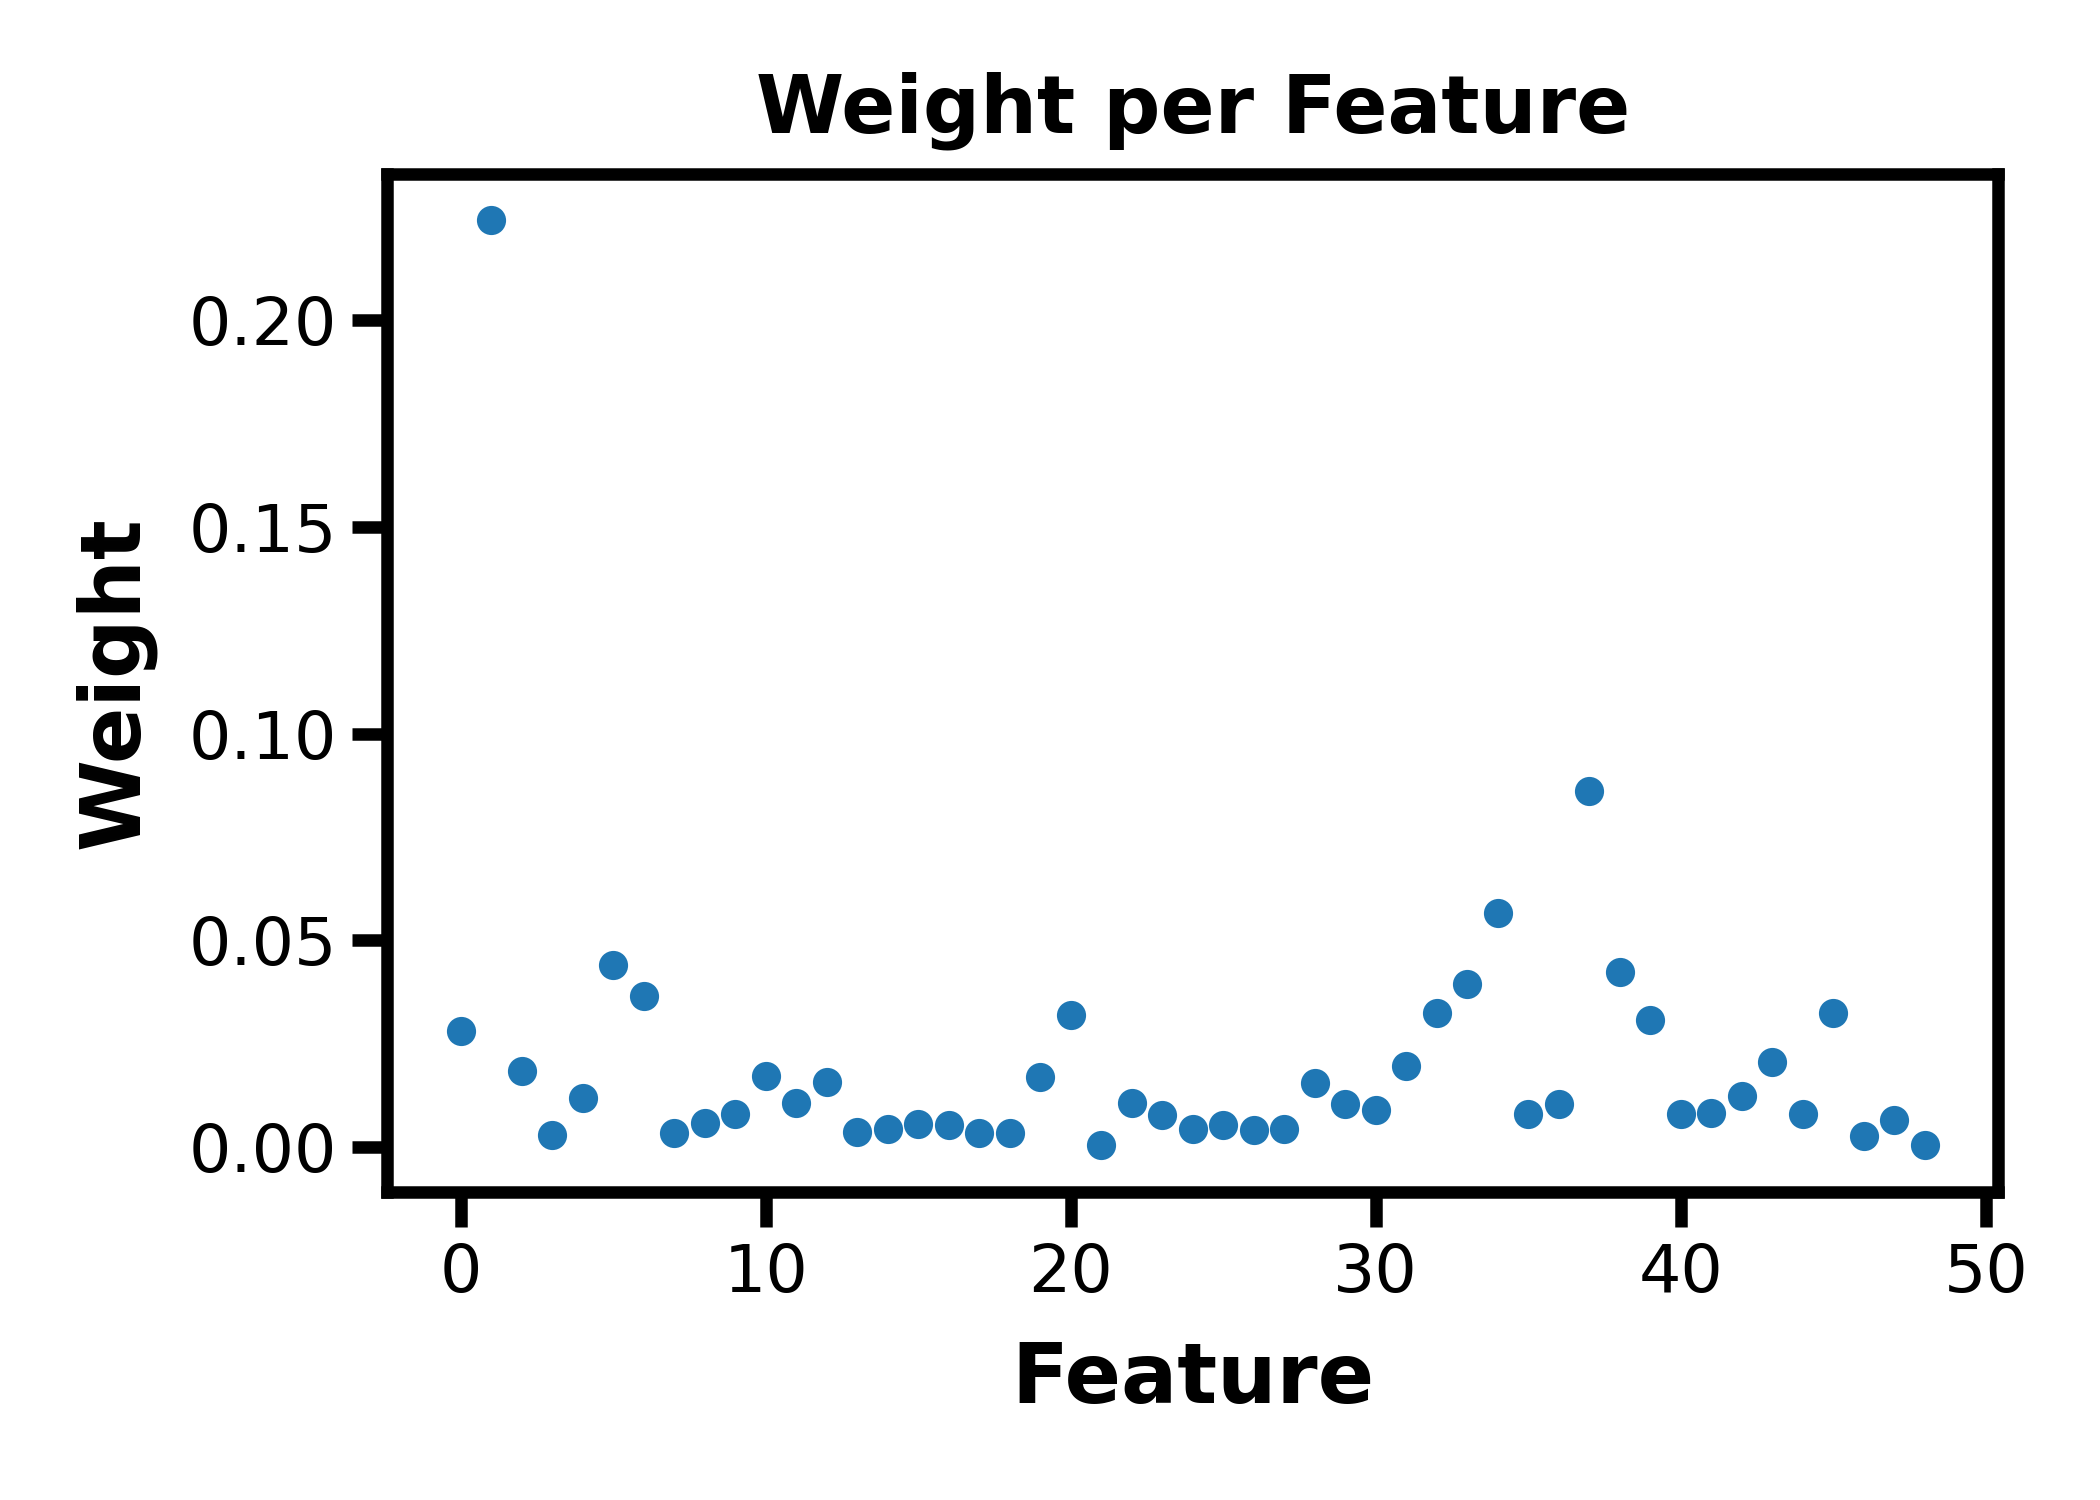
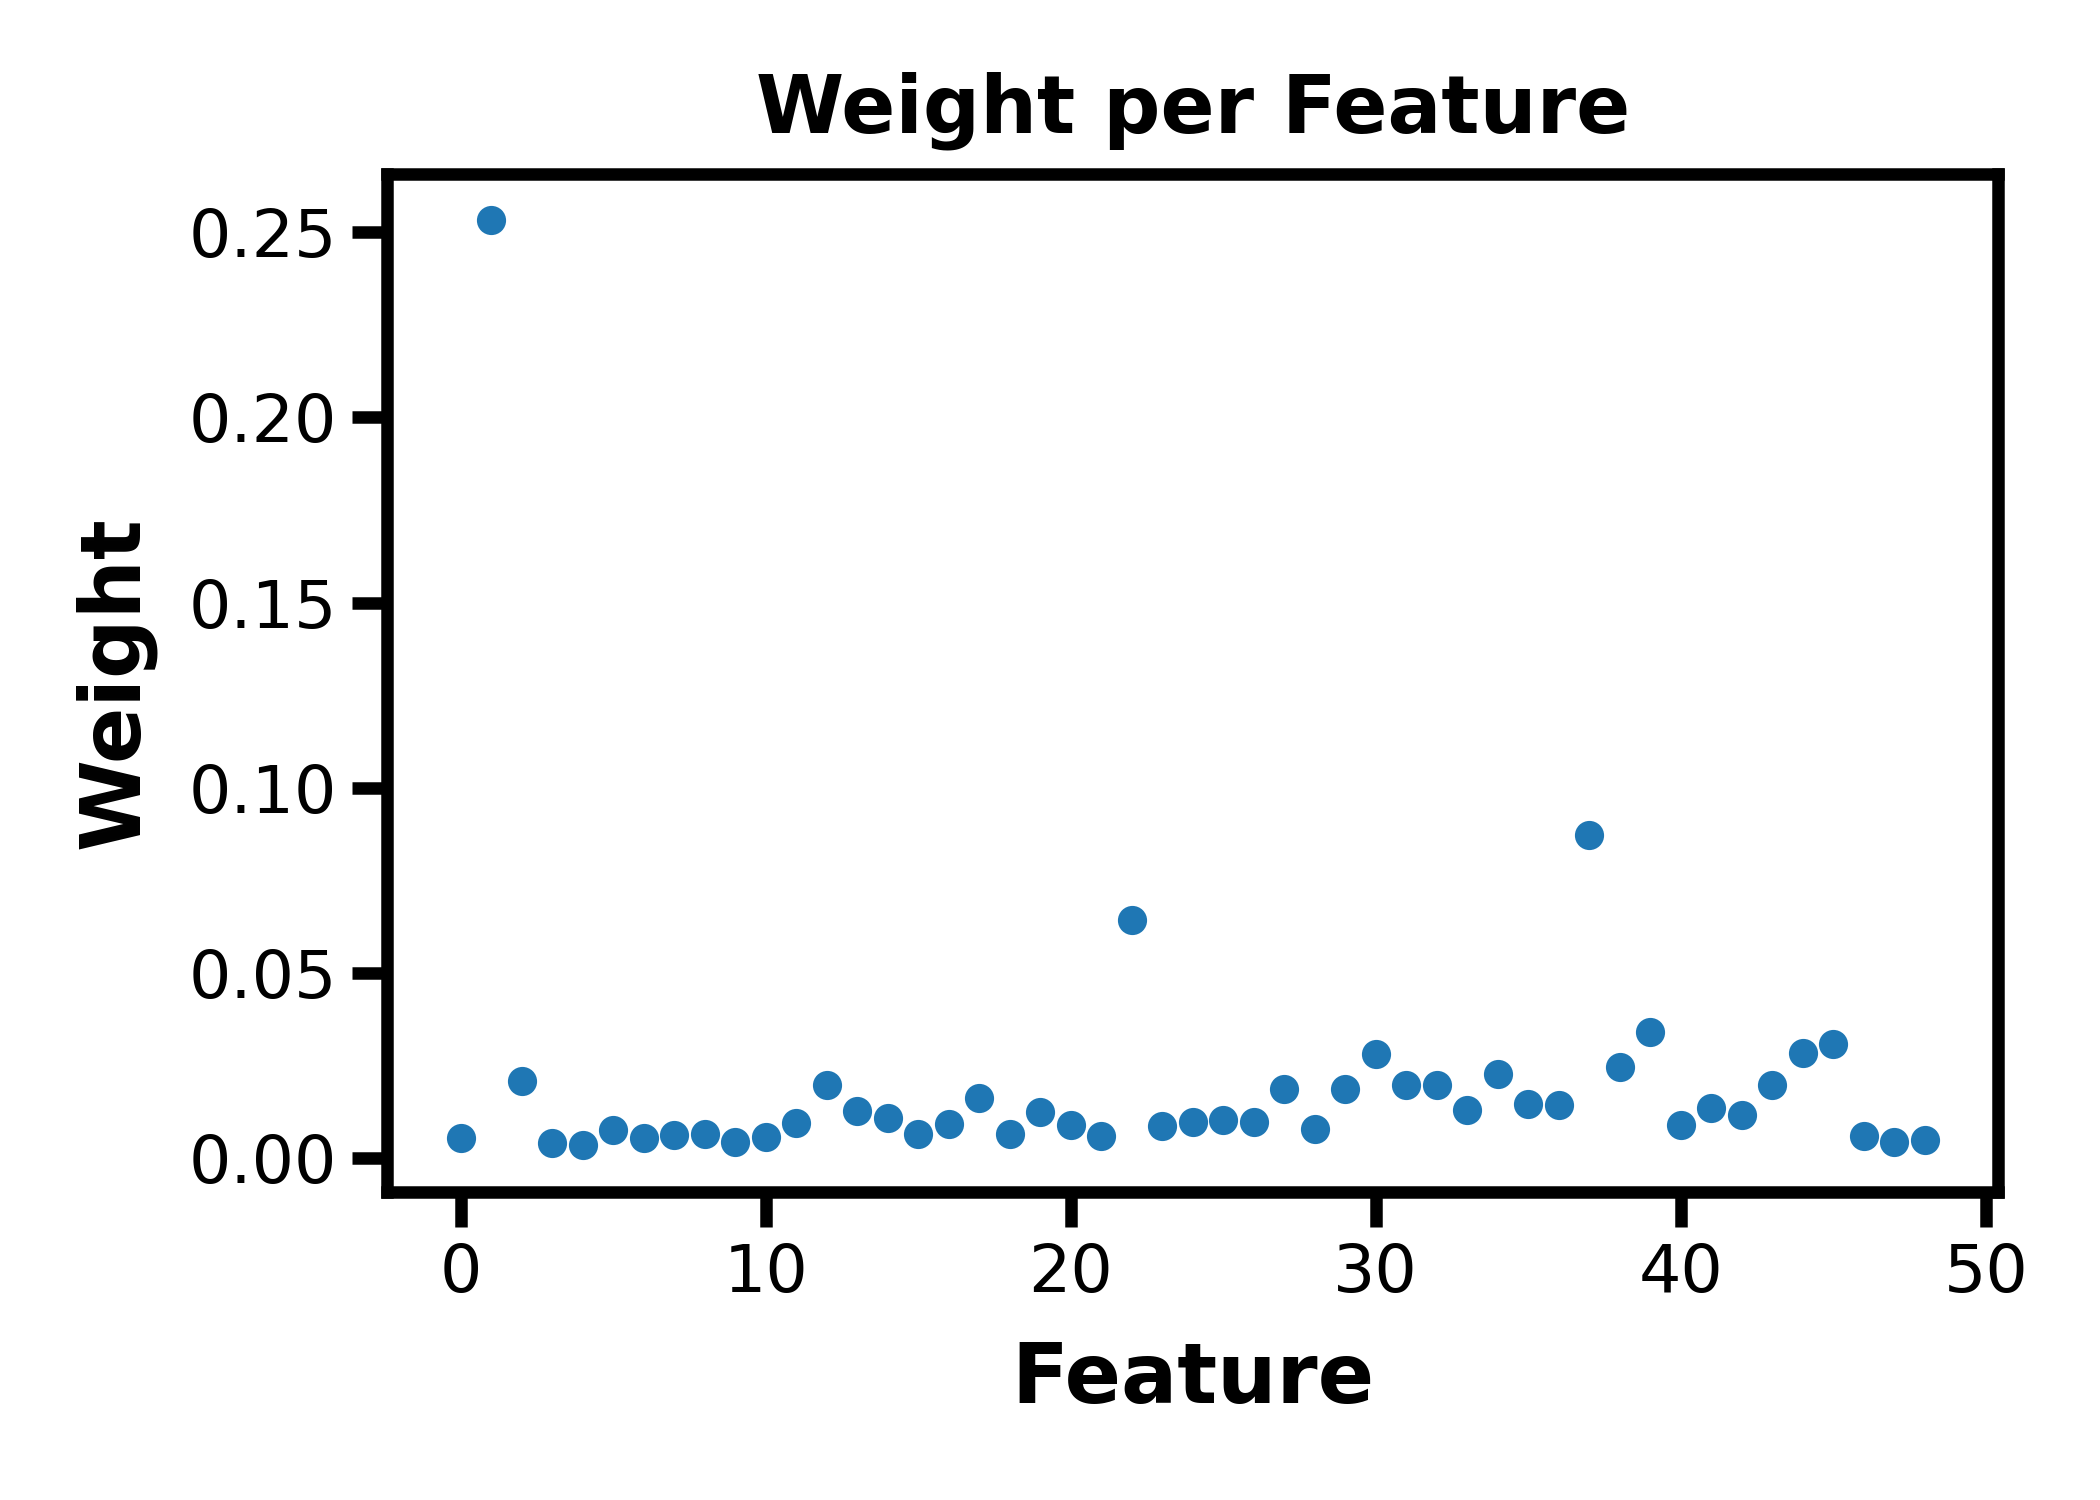
can now opt weights before running model in split_score

diff --git a/final_project/ml_pcoord.py b/final_project/ml_pcoord.py
@@ -414,7 +414,7 @@ class ML_Pcoord:
         # return the scipy min object
         return feat_min
 
-    def split_score(self, model=None, score="auc", confusion=False):
+    def split_score(self, model=None, score="auc", confusion=False, opt_weights=False):
         """
         Split ml_input into test/train datasets, opt weights using training data, 
         and use those weights or the input model to predict on test data.
@@ -427,6 +427,8 @@ class ML_Pcoord:
         confusion : bool
             True to compute and print the confusion matrix.
             Note, only possible with binary classification model, not with weight probabilites.
+        opt_weights : bool
+            Optionally opt weights and then use input model.
 
         Returns
         -------
@@ -439,7 +441,7 @@ class ML_Pcoord:
                                                      test_size=0.8, stratify=self.seg_labels)
 
         # run weight gradient opt on training 
-        if model is None:
+        if model is None or opt_weights is True:
             # set ml_input to be training set
             self.ml_input = X_train
             self.seg_labels = y_train
@@ -458,7 +460,10 @@ class ML_Pcoord:
                 y_pred = log_fit.predict(y_pred.reshape(-1, 1))
 
         # otherwise, try other models besides my opt model (RF, logistic, etc)
-        else:
+        if model is not None:
+            if opt_weights:
+                X_train = np.multiply(X_train, self.feat_w)
+                X_test = np.multiply(X_test, self.feat_w)
             self.model = model.fit(X_train, y_train)
             # estimate test labels
             y_pred = self.model.predict(X_test)
@@ -622,17 +627,16 @@ if __name__ == "__main__":
 
     ml = ML_Pcoord(h5="data/ctd_ub_1d_v00.h5", ml_input="X_ml_input_v01.tsv", seg_labels="y_ml_input_v01.tsv")
     
-    score = ml.split_score(score="auc", confusion=True)
-    print(ml.plot_weights())
+    # score = ml.split_score(score="auc", confusion=True)
+    # print(ml.plot_weights())
 
-    # score = ml.split_score(ensemble.RandomForestClassifier(oob_score=True), score="auc", confusion=True)
-    # print(f"OOB: {ml.model.oob_score_}")
-    # print(ml.plot_weights(weights=ml.model.feature_importances_))
+    # tested RF with weighted input array, same/similar result, maybe a little better, need CV to be sure
+    score = ml.split_score(ensemble.RandomForestClassifier(oob_score=True), score="auc", confusion=True, opt_weights=False)
+    print(f"OOB: {ml.model.oob_score_}")
+    print(ml.plot_weights(weights=ml.model.feature_importances_))
 
     #plt.show()
     print(score)
-
-    # TODO: ready to calc confusion matrix
 
     # TODO: run cv
     # mention in nb that using weights, can get probability estimates for binary classification
